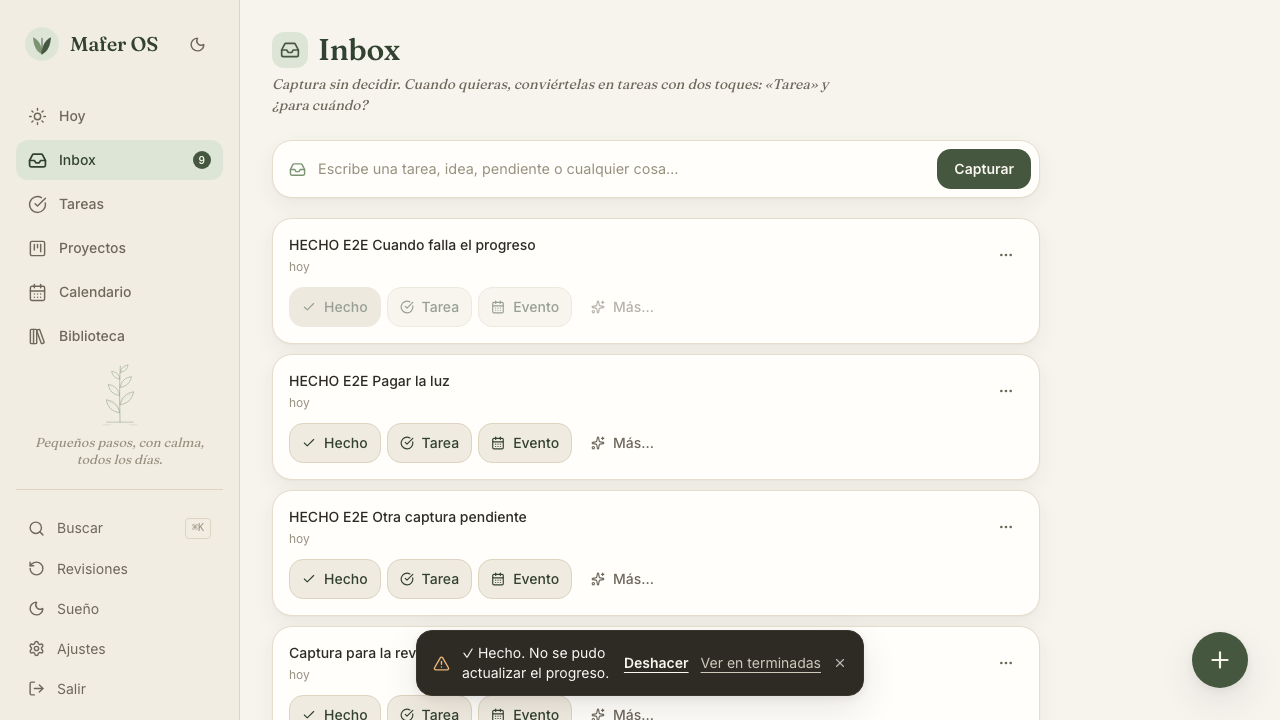
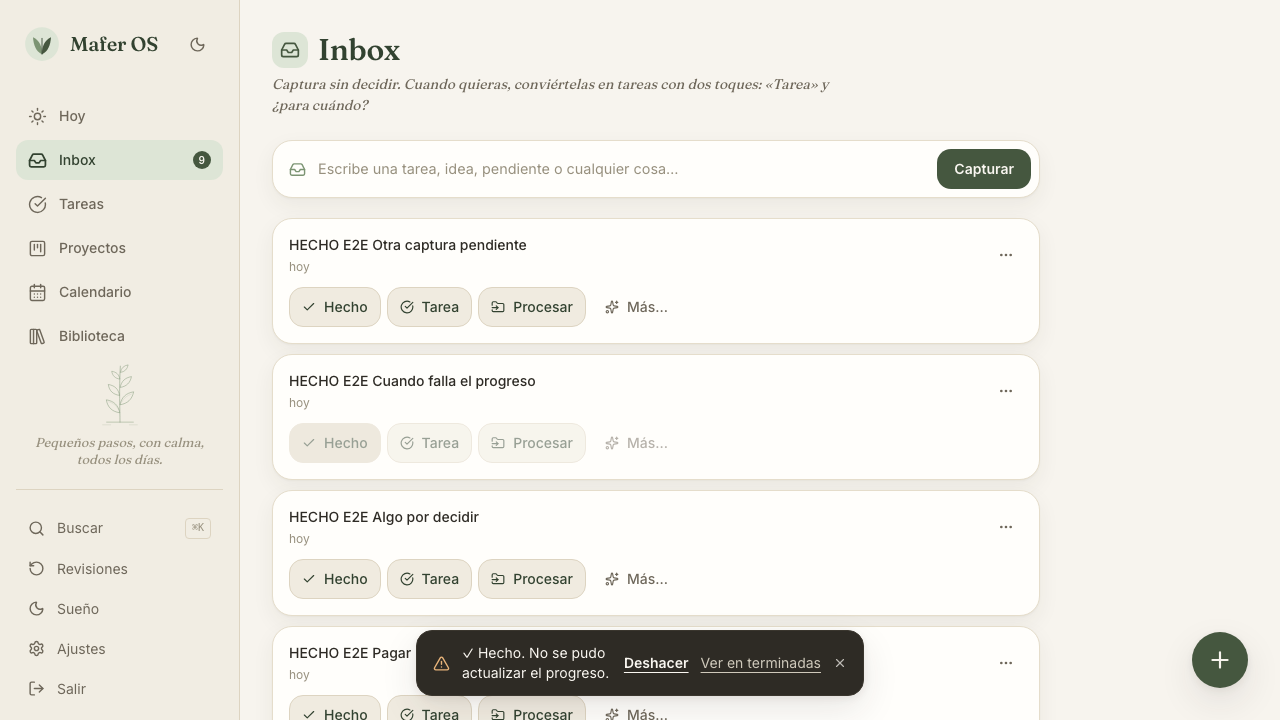
fix(inbox): «Evento» pasa a «Procesar» y abre el cuadro sin tipo elegido
El botón abría el cuadro de procesar con Evento ya marcado y su texto
prometía una acción demasiado específica. Ahora la fila es
✓ Hecho · Tarea · Procesar · Más…, y Procesar abre el cuadro para elegir.
Capturas de docs/qa/progreso-f2 actualizadas; prueba nueva en z24.

diff --git a/e2e/z24-inbox-hecho.spec.ts b/e2e/z24-inbox-hecho.spec.ts
@@ -169,6 +169,17 @@ test("Tarea, Archivar y Eliminar siguen como antes y no suman", async ({ page })
   expect((await credits()).length).toBe(antes);
 });
 
+test("Procesar abre el cuadro de procesar sin ningún tipo elegido", async ({ page }) => {
+  await captura("hecho-procesar", "Algo por decidir");
+  await login(page);
+  await page.goto("/inbox");
+  await tarjeta(page, "Algo por decidir").getByTestId("inbox-procesar").click();
+  const panel = page.getByTestId("process-panel");
+  await expect(panel).toBeVisible();
+  await expect(panel.getByRole("radio", { checked: true })).toHaveCount(0);
+  await expect(panel.getByTestId("type-evento")).toHaveAttribute("aria-checked", "false");
+});
+
 test("Deshacer no revierte nada si la tarea cambió después", async ({ page }) => {
   await captura("hecho-4", "Revisar contrato");
   await login(page);
@@ -258,7 +269,7 @@ test("iPhone: ✓ Hecho cabe junto a las demás salidas, claro y oscuro", async 
   await expect(card.getByTestId("inbox-done")).toBeVisible();
   // las cuatro salidas caben dentro de la tarjeta, sin desbordarla
   const box = (await card.boundingBox())!;
-  for (const id of ["inbox-done", "inbox-to-task", "inbox-to-event", "inbox-process"]) {
+  for (const id of ["inbox-done", "inbox-to-task", "inbox-procesar", "inbox-process"]) {
     const b = (await card.getByTestId(id).boundingBox())!;
     expect(b.x).toBeGreaterThanOrEqual(box.x);
     expect(b.x + b.width).toBeLessThanOrEqual(box.x + box.width);

diff --git a/src/components/inbox/inbox-list.tsx b/src/components/inbox/inbox-list.tsx
@@ -17,6 +17,7 @@ import {
   CalendarDays,
   MoreHorizontal,
   PencilLine,
+  FolderInput,
 } from "lucide-react";
 import {
   convertInboxItem,
@@ -279,10 +280,10 @@ function InboxCard({
           type="button"
           className="btn btn-secondary !py-1.5 !px-3 text-sm"
           disabled={pending}
-          onClick={() => onProcess("evento")}
-          data-testid="inbox-to-event"
+          onClick={() => onProcess(null)}
+          data-testid="inbox-procesar"
         >
-          <CalendarDays size={14} aria-hidden /> Evento
+          <FolderInput size={14} aria-hidden /> Procesar
         </button>
         <button
           type="button"
